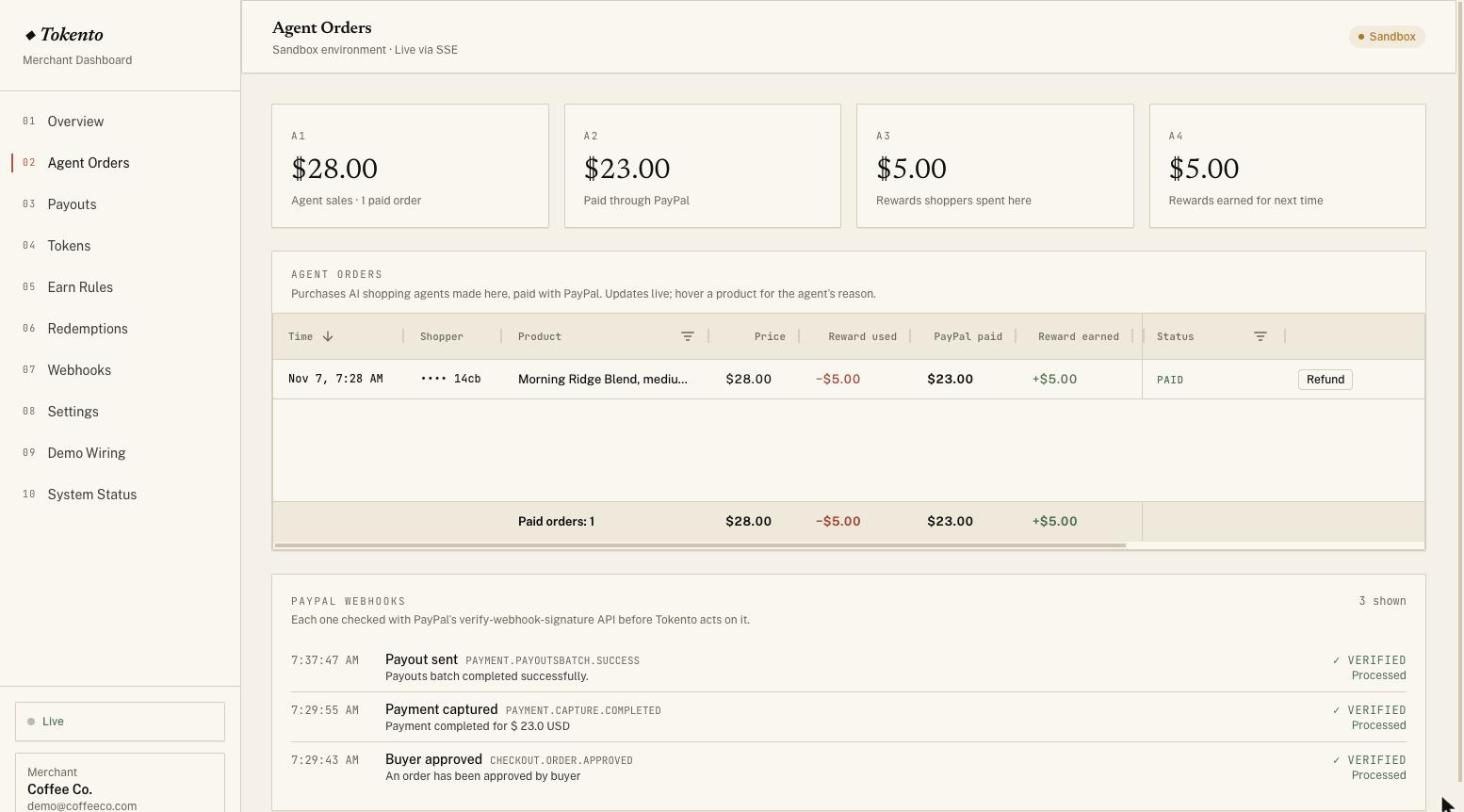
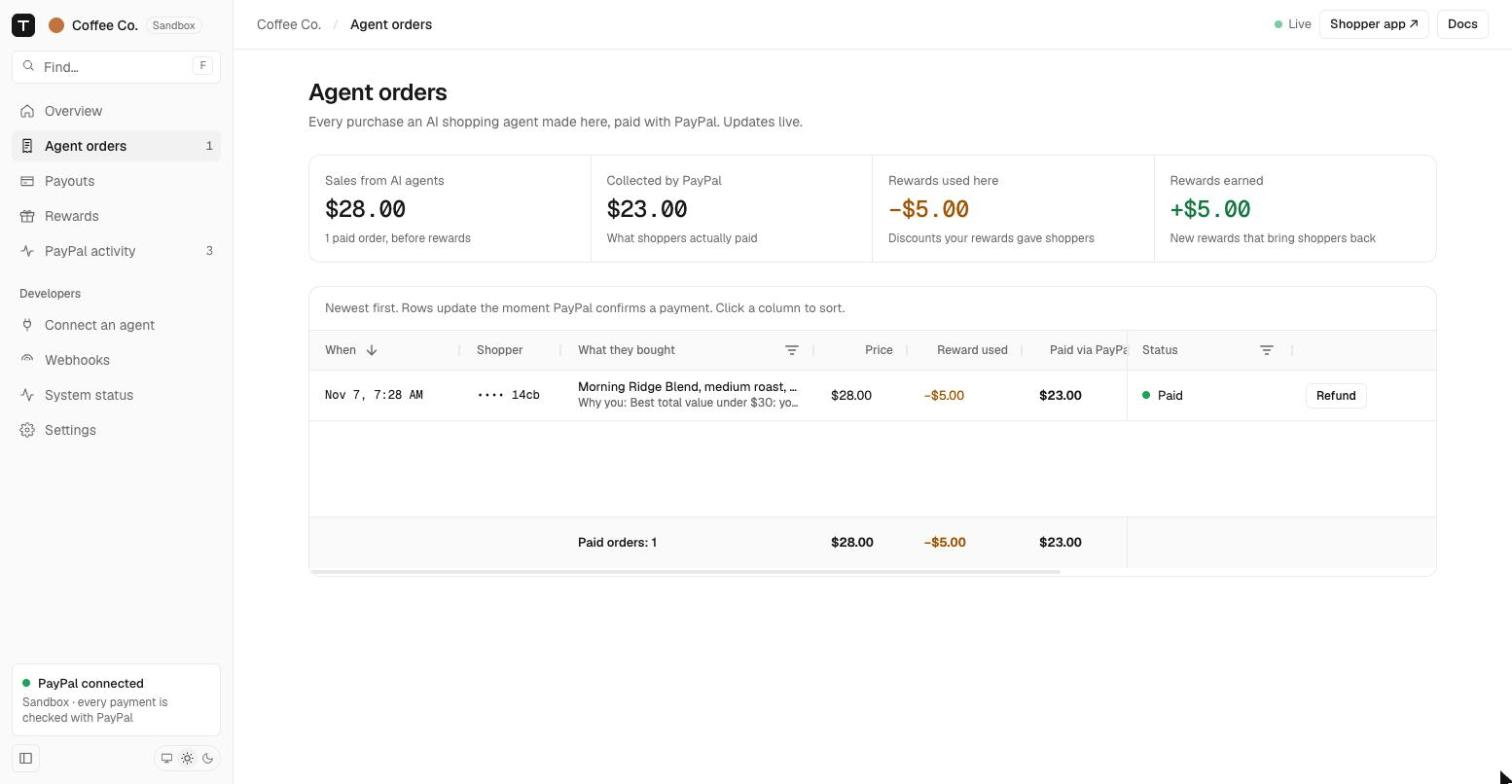
docs: README shows the redesigned dashboard; wider PayPal column

diff --git a/packages/dashboard/src/app/components/AgentOrdersTab.tsx b/packages/dashboard/src/app/components/AgentOrdersTab.tsx
@@ -203,7 +203,7 @@ export function AgentOrdersTab({ request, subscribe }: { request: Request; subsc
         cellClass: (p) => (typeof p.value === "number" ? "tabular text-warning" : "tabular text-text-muted"),
         valueFormatter: (p) => (typeof p.value === "number" ? `−${usd(p.value)}` : "—"),
       },
-      { field: "paid", headerName: "Paid via PayPal", width: 128, type: "rightAligned", cellClass: "tabular font-semibold", valueFormatter: money },
+      { field: "paid", headerName: "Paid via PayPal", width: 144, type: "rightAligned", cellClass: "tabular font-semibold", valueFormatter: money },
       {
         field: "earned",
         headerName: "Reward earned",

diff --git a/README.md b/README.md
@@ -125,7 +125,7 @@ flowchart LR
 
 ### Tests
 
-313 tests pass: API 211, shopper 53, PayPal client 28, dashboard 15, MCP adapter 6. The checkout tests are integration tests against a real Postgres, with only PayPal faked at its HTTP boundary ([fake-paypal-client.ts](packages/api/tests/helpers/fake-paypal-client.ts)). `pnpm test` builds and runs everything, and CI runs typecheck, lint and the suite on pull requests to `main`.
+324 tests pass: API 211, shopper 53, PayPal client 28, dashboard 26, MCP adapter 6. The checkout tests are integration tests against a real Postgres, with only PayPal faked at its HTTP boundary ([fake-paypal-client.ts](packages/api/tests/helpers/fake-paypal-client.ts)). `pnpm test` builds and runs everything, and CI runs typecheck, lint and the suite on pull requests to `main`.
 
 The riskiest paths each have a named test:
 
@@ -150,15 +150,17 @@ The riskiest paths each have a named test:
 - The checkout card shows the math line by line, why this store, and the PayPal button. Once paid it becomes the receipt, with PayPal's capture id.
 - Side panels show the spending limits (with **Link PayPal once**), the rewards wallet and recent agent orders. The chat is saved per shopper, and coming back from PayPal returns to the same conversation.
 
-**Store dashboard.** Built with AG Grid Community.
+**Store dashboard.** A Geist-style layout in light and dark (it follows the system setting, or the switch in the sidebar), written so a store owner with no payments background can follow it.
 
-- **Agent Orders**: rows arrive and update live with `applyTransaction` from the server-sent event stream, changed cells flash, a pinned row totals paid orders, and you can filter by status, refund, or hover a product to read the agent's reason. Stat cards show sales, what PayPal collected and rewards spent and earned. See [AgentOrdersTab.tsx](packages/dashboard/src/app/components/AgentOrdersTab.tsx).
-- **PayPal webhooks**: every event, its verification and whether it was processed. See [PayPalEventsFeed.tsx](packages/dashboard/src/app/components/PayPalEventsFeed.tsx).
-- **Payouts**: what the store is owed, a Settle now button, and one row per PayPal Payouts batch with its live status. See [PayoutsTab.tsx](packages/dashboard/src/app/components/PayoutsTab.tsx).
+- **Overview**: a three-step "how it works" strip, the latest agent order as the shopper saw it with each PayPal step spelled out ("Shopper approved in PayPal", "PayPal confirmed the payment", "Paid out to you"), four numbers that each say what they mean, recent orders, and an activity feed that says who did what. See [OverviewPage.tsx](packages/dashboard/src/app/components/OverviewPage.tsx) and its logic in [overview-data.ts](packages/dashboard/src/app/components/overview-data.ts).
+- **Agent orders** (AG Grid Community): rows arrive and update live with `applyTransaction` from the server-sent event stream, changed cells flash, a pinned row totals paid orders, statuses show as a dot plus words, and each row says why the agent chose the store. Refund from the row. See [AgentOrdersTab.tsx](packages/dashboard/src/app/components/AgentOrdersTab.tsx).
+- **Payouts** (AG Grid): what the store is owed, a Settle now button, and one row per PayPal Payouts batch with its live status. See [PayoutsTab.tsx](packages/dashboard/src/app/components/PayoutsTab.tsx).
+- **PayPal activity**: every verified PayPal message about the store's orders. See [PayPalEventsFeed.tsx](packages/dashboard/src/app/components/PayPalEventsFeed.tsx).
+- A sidebar with quick find (press F) that collapses to icons; developer pages (connecting an agent, webhooks, system status) sit in their own group. See [Sidebar.tsx](packages/dashboard/src/app/components/Sidebar.tsx).
 
-![Agent Orders in AG Grid with verified PayPal webhooks](docs/images/dashboard-agent-orders.jpg)
+![Dashboard overview: how it works, the latest agent order and its PayPal steps](docs/images/dashboard-overview.jpg)
 
-![Payouts: the store paid through a PayPal Payouts batch](docs/images/dashboard-payouts.jpg)
+![Agent orders in AG Grid, light theme](docs/images/dashboard-agent-orders.jpg)
 
 ## Impact
 
